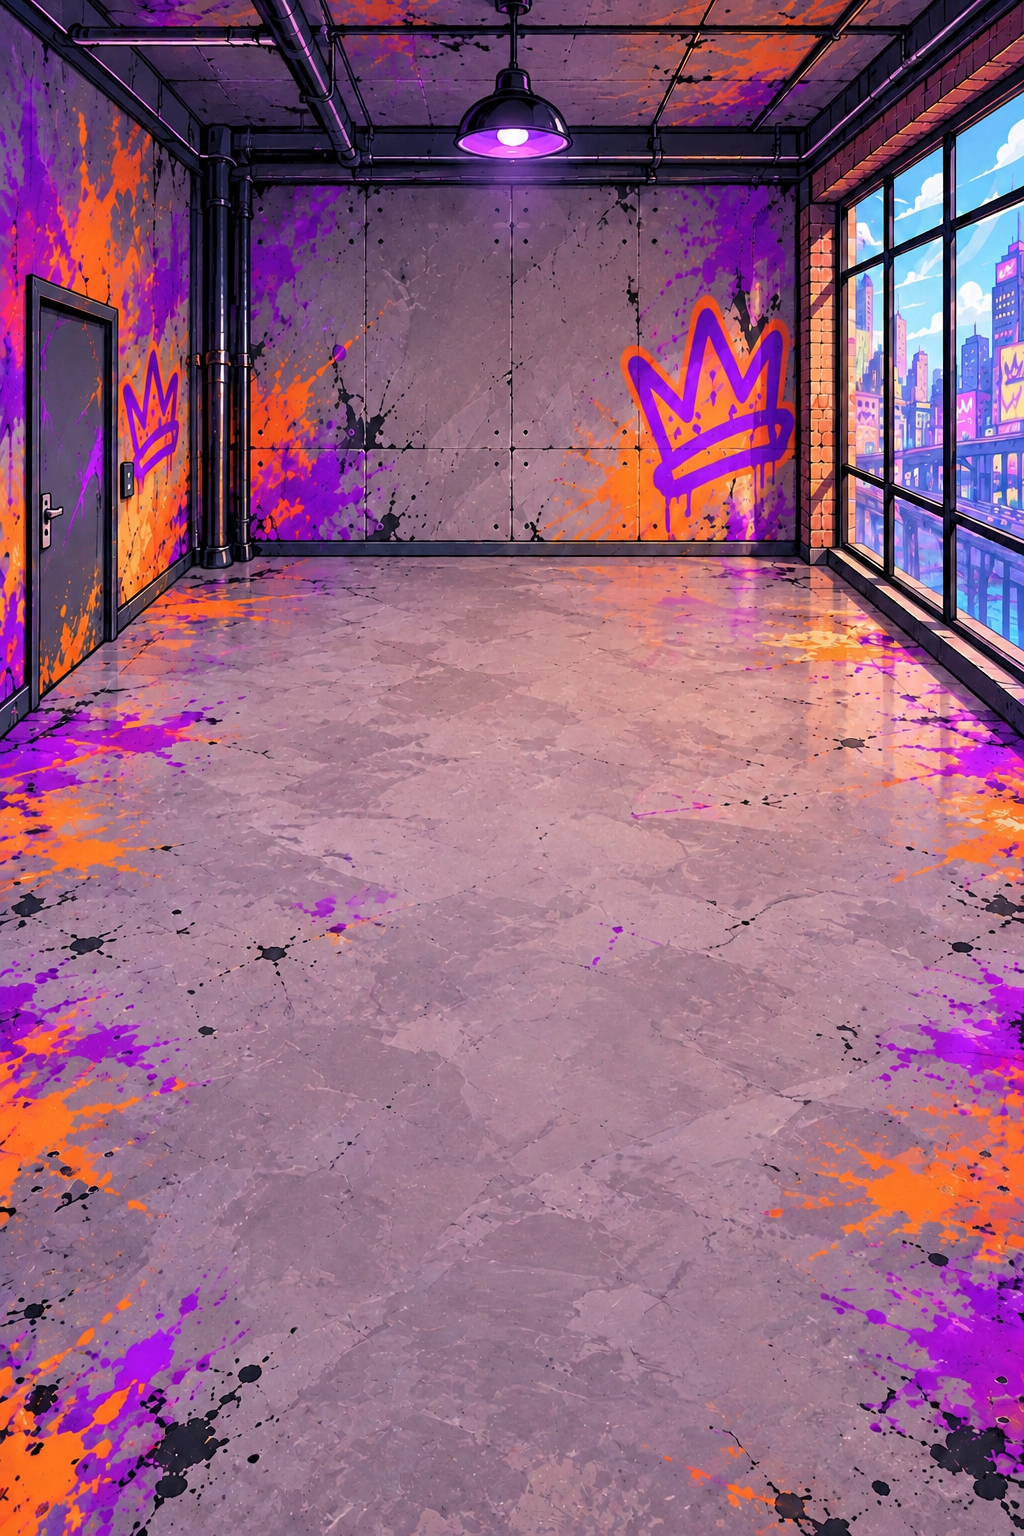
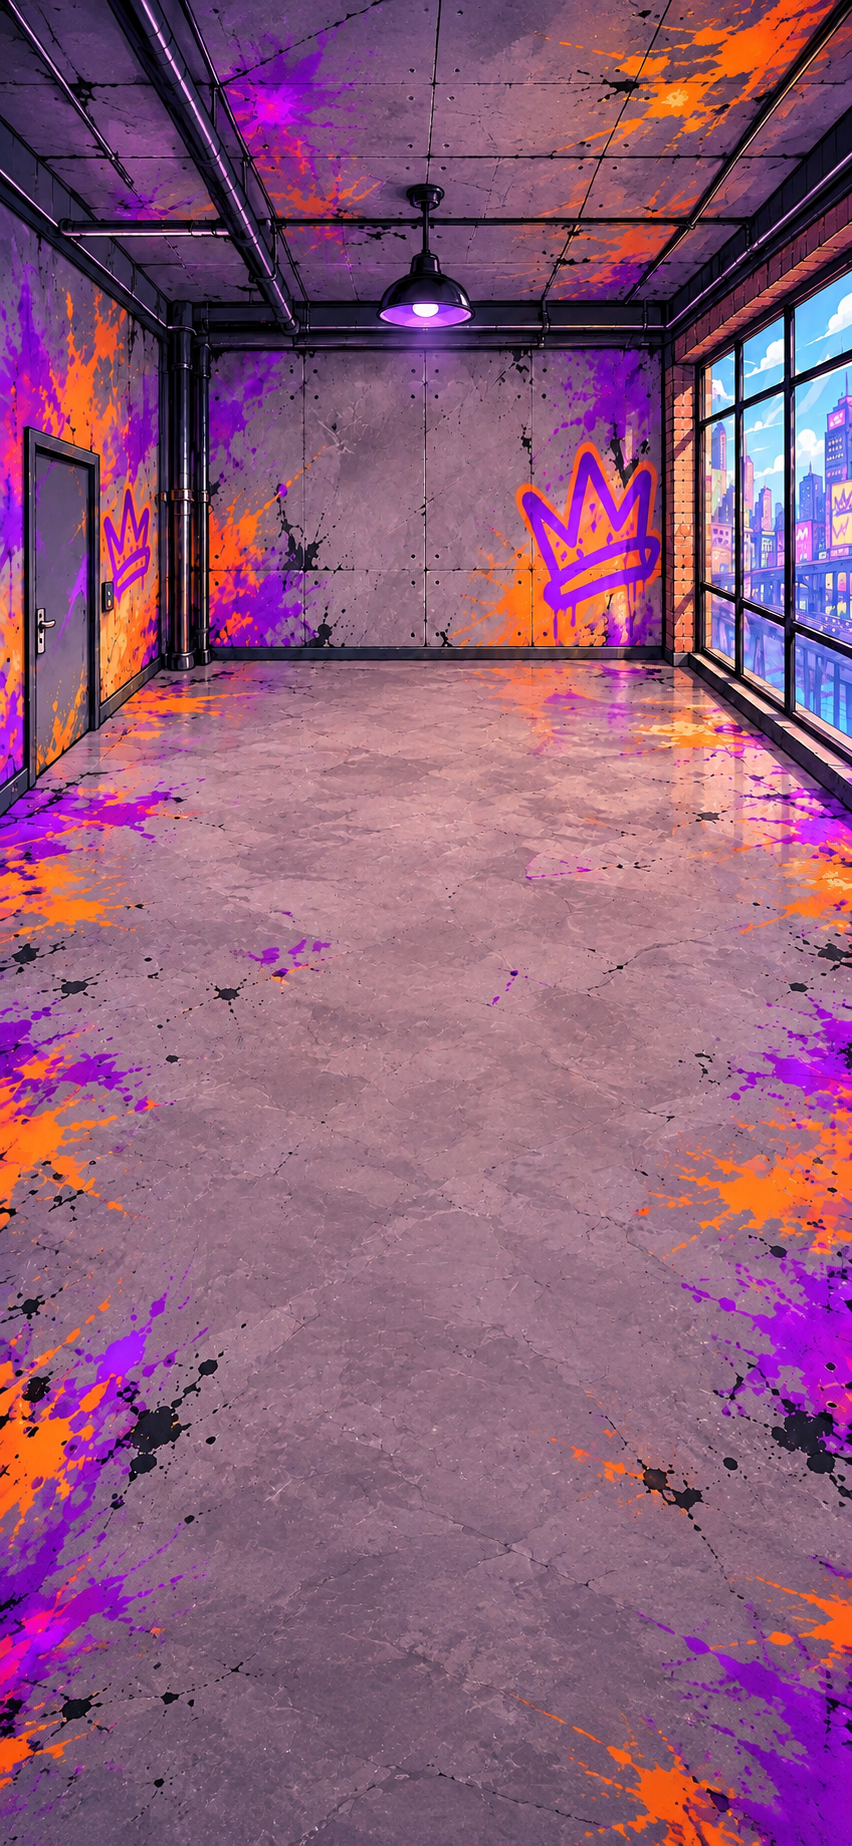
STREET ROOMを全画面用の縦長の絵に(床の場所を測り直し)
Claude-Session: https://claude.ai/code/session_01MXithgTc5umkveoyZShZHQ

diff --git a/src/core/home.ts b/src/core/home.ts
@@ -88,7 +88,8 @@ export interface HomeLayout {
 const ROOM_FLOOR: Pt[] = [[300, 640], [770, 640], [960, 800], [985, 1290], [40, 1290], [60, 800]];
 
 export const HOME_LAYOUTS: Record<HomePlace, HomeLayout> = {
-  street: { w: 1024, h: 1536, floor: ROOM_FLOOR, scale: [0.09, 0.19], furniture: [[255, 562], [800, 562], [1024, 745], [1024, 1290], [0, 1290], [0, 715]], vanish: [568, 365] },
+  // 2026-11-08 全画面用の 縦長の 絵(852x1846)。床・家具の 場所・奥行きの 点を この 絵で 測りなおした
+  street: { w: 852, h: 1846, floor: [[250, 700], [630, 700], [800, 850], [830, 1600], [30, 1600], [50, 850]], scale: [0.09, 0.2], furniture: [[205, 660], [665, 660], [852, 790], [852, 1640], [0, 1640], [0, 800]], vanish: [428, 450] },
   pop: { w: 1024, h: 1536, floor: ROOM_FLOOR, scale: [0.09, 0.19], furniture: [[205, 576], [815, 576], [1024, 740], [1024, 1290], [0, 1290], [0, 730]], vanish: [517, 342] },
   // シークレットVIPルーム(企画者の絵 2026-10-22)
   room4: { w: 1024, h: 1536, floor: [[300, 600], [770, 600], [960, 780], [985, 1290], [40, 1290], [60, 780]], scale: [0.09, 0.19], furniture: [[250, 530], [812, 526], [1024, 690], [1024, 1290], [0, 1290], [0, 682]], vanish: [568, 339] },

diff --git a/src/scenes/HomeScene.ts b/src/scenes/HomeScene.ts
@@ -38,7 +38,9 @@ const FURNITURE_PERSP = 0.55;
 const DEPTH = { monz: 10, effect: 30, ui: 40, popup: 60 };
 
 /** 企画者の部屋の絵(design/home/rooms/ → public/assets/home/rooms/)。_thumb は部屋を選ぶ画面の小さい絵 */
-export const homeImageFile = (p: HomePlace, thumb = false) => `assets/home/rooms/${p}${thumb ? '_thumb' : ''}.webp`;
+/** 作り直した 部屋の 絵(2026-11-08 全画面用。名前を 変えて 古い 絵と まざらないように) */
+const ROOM_FILE_NAME: Partial<Record<HomePlace, string>> = { street: 'street_v2' };
+export const homeImageFile = (p: HomePlace, thumb = false) => `assets/home/rooms/${ROOM_FILE_NAME[p] ?? p}${thumb ? '_thumb' : ''}.webp`;
 export const homeImageKey = (p: HomePlace, thumb = false) => `home:bg:${p}${thumb ? ':thumb' : ''}`;
 
 /** 選んだお世話部屋。まだ選んでいなければ undefined(「どこで育てる？」の画面へ) */
